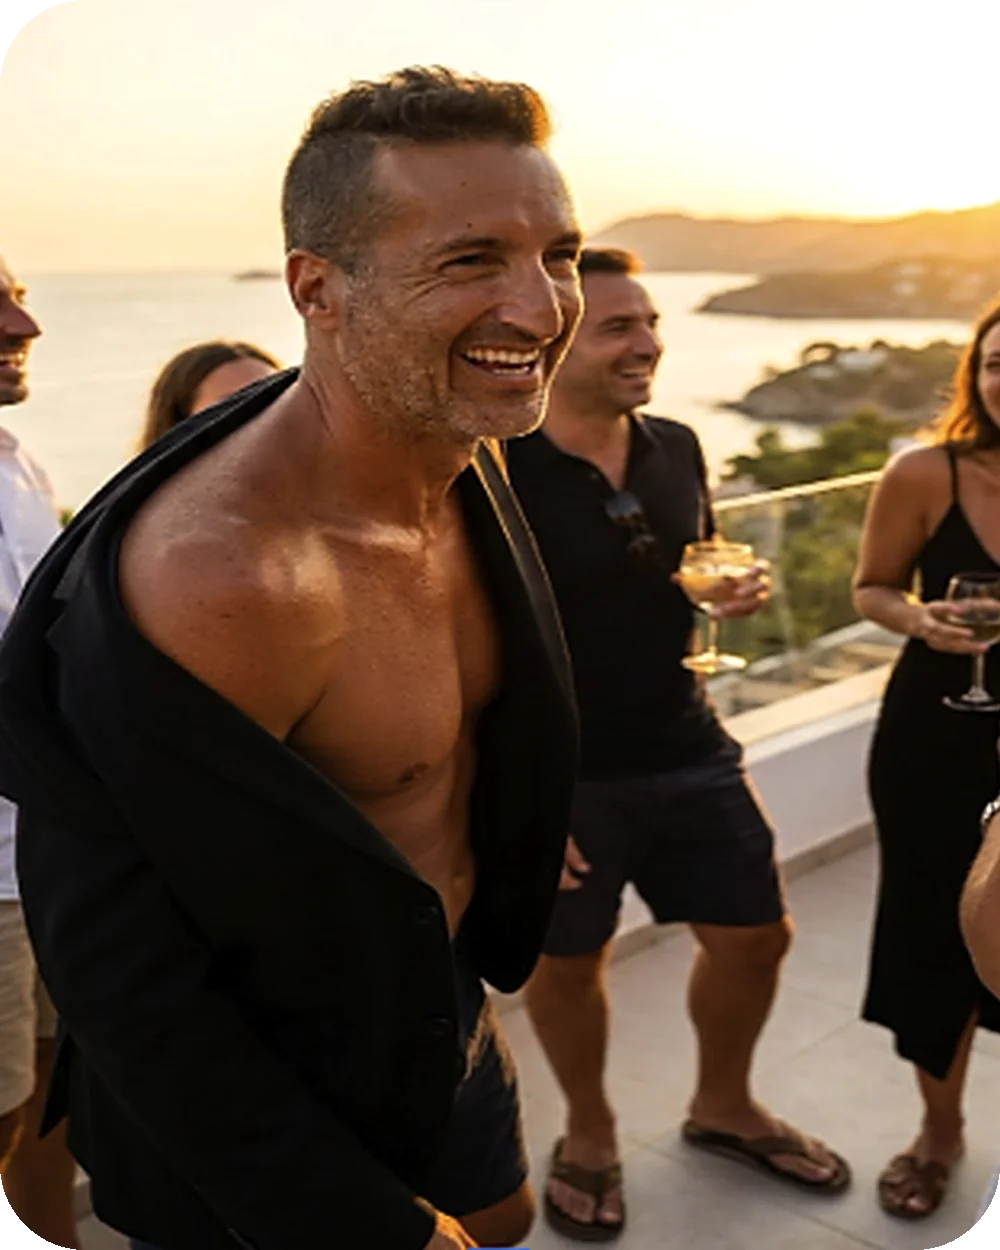
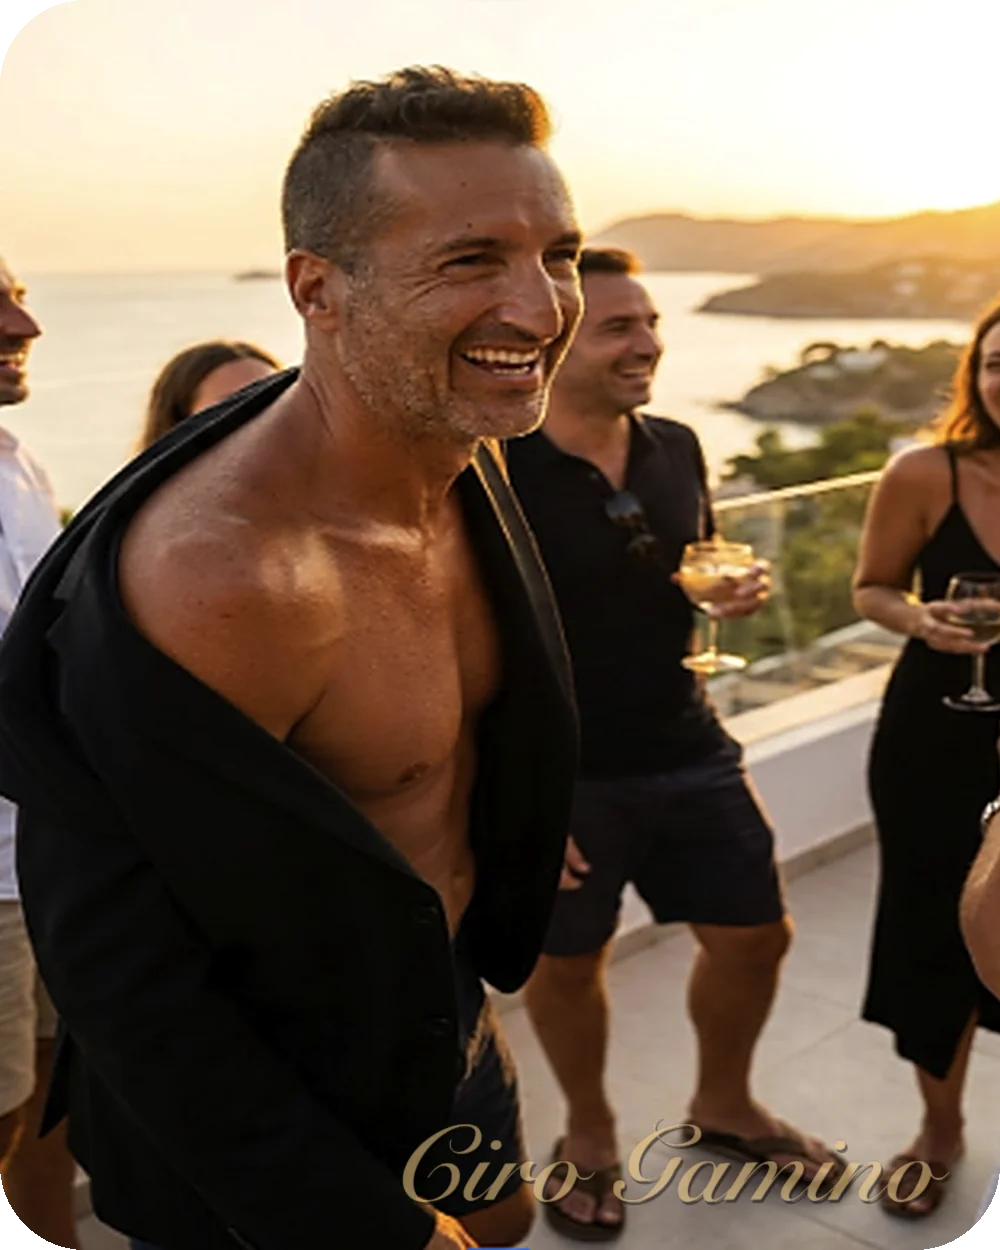
2nd Mediterranean card (dusk tight crop, HIS image — AI strangers rejected at identity gate) + cursive Ciro Gamino signature watermark on all site photos — v4

Changed region(s): [[0.403, 0.9048, 0.93, 0.9672]]

diff --git a/index.html b/index.html
@@ -163,7 +163,7 @@ footer{position:relative;z-index:5;border-top:1px solid var(--line);padding:40px
 <body>
 
 <canvas id="space"></canvas>
-<img id="glow-fallback" src="img/ciro-med-scene.webp?v=3" alt="Ciro Gamino">
+<img id="glow-fallback" src="img/ciro-med-scene.webp?v=4" alt="Ciro Gamino">
 <div class="vignette"></div>
 <div class="grain"></div>
 
@@ -208,8 +208,8 @@ footer{position:relative;z-index:5;border-top:1px solid var(--line);padding:40px
     The fleet ships it; he signs off.</p>
   </div>
   <div class="human-grid">
-    <div class="pcard rv" data-tilt><img src="img/ciro-med-scene.webp?v=3" alt="Ciro laughing at a Mediterranean sunset, jacket over shoulders"><div class="cap"><b>The Mediterranean cut</b><span>TAN · SUNSET · JACKET, NO SHIRT — HIS PICK</span></div></div>
-    <div class="pcard rv" data-tilt><img src="img/ciro-side.webp?v=2" alt="Ciro Gamino side profile"><div class="cap"><b>Watching the machines work</b><span>EVERY ARENA, EVERY NIGHT</span></div></div>
+    <div class="pcard rv" data-tilt><img src="img/ciro-med-card1.webp?v=4" alt="Ciro laughing at a Mediterranean sunset, jacket over shoulders"><div class="cap"><b>The Mediterranean cut</b><span>TAN · SUNSET · JACKET, NO SHIRT — HIS PICK</span></div></div>
+    <div class="pcard rv" data-tilt><img src="img/ciro-med-card2.webp?v=4" alt="Ciro laughing at golden hour on a Mediterranean terrace, signed"><div class="cap"><b>Golden hour, signed</b><span>SUNSET PARTY · MEDITERRANEAN COAST</span></div></div>
   </div>
   <p class="human-side rv">By day the fleet runs volleyball nights, real-estate pipelines, a mockumentary office and a
   social empire. By night it runs itself — <b>that's the point</b>. I built a company where twenty of the
@@ -398,7 +398,7 @@ medGlow.position.set(0,0,-8.5); scene.add(medGlow);
 
 /* ---- THE OPERATOR: photo slab + frame + glow ---- */
 const heroGrp=new THREE.Group();
-const tex=new THREE.TextureLoader().load('img/ciro-med-scene.webp?v=3'); tex.colorSpace=THREE.SRGBColorSpace;
+const tex=new THREE.TextureLoader().load('img/ciro-med-scene.webp?v=4'); tex.colorSpace=THREE.SRGBColorSpace;
 const PW=3.05,PH=3.82;
 const photo=new THREE.Mesh(new THREE.PlaneGeometry(PW,PH),new THREE.MeshBasicMaterial({map:tex}));
 heroGrp.add(photo);
